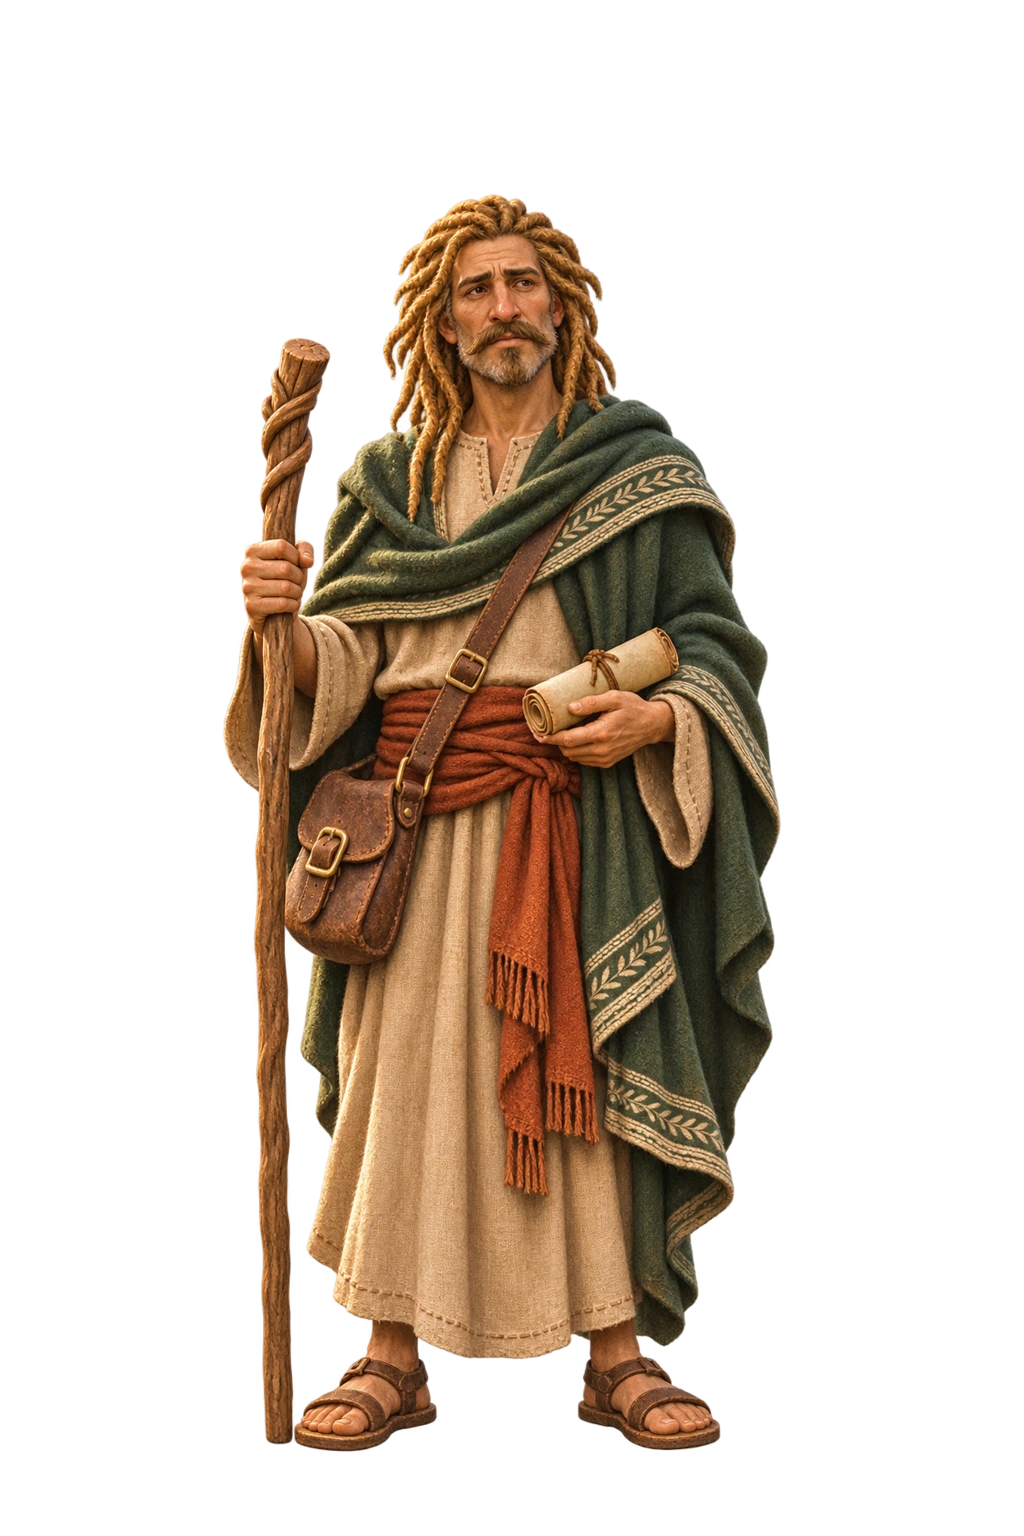
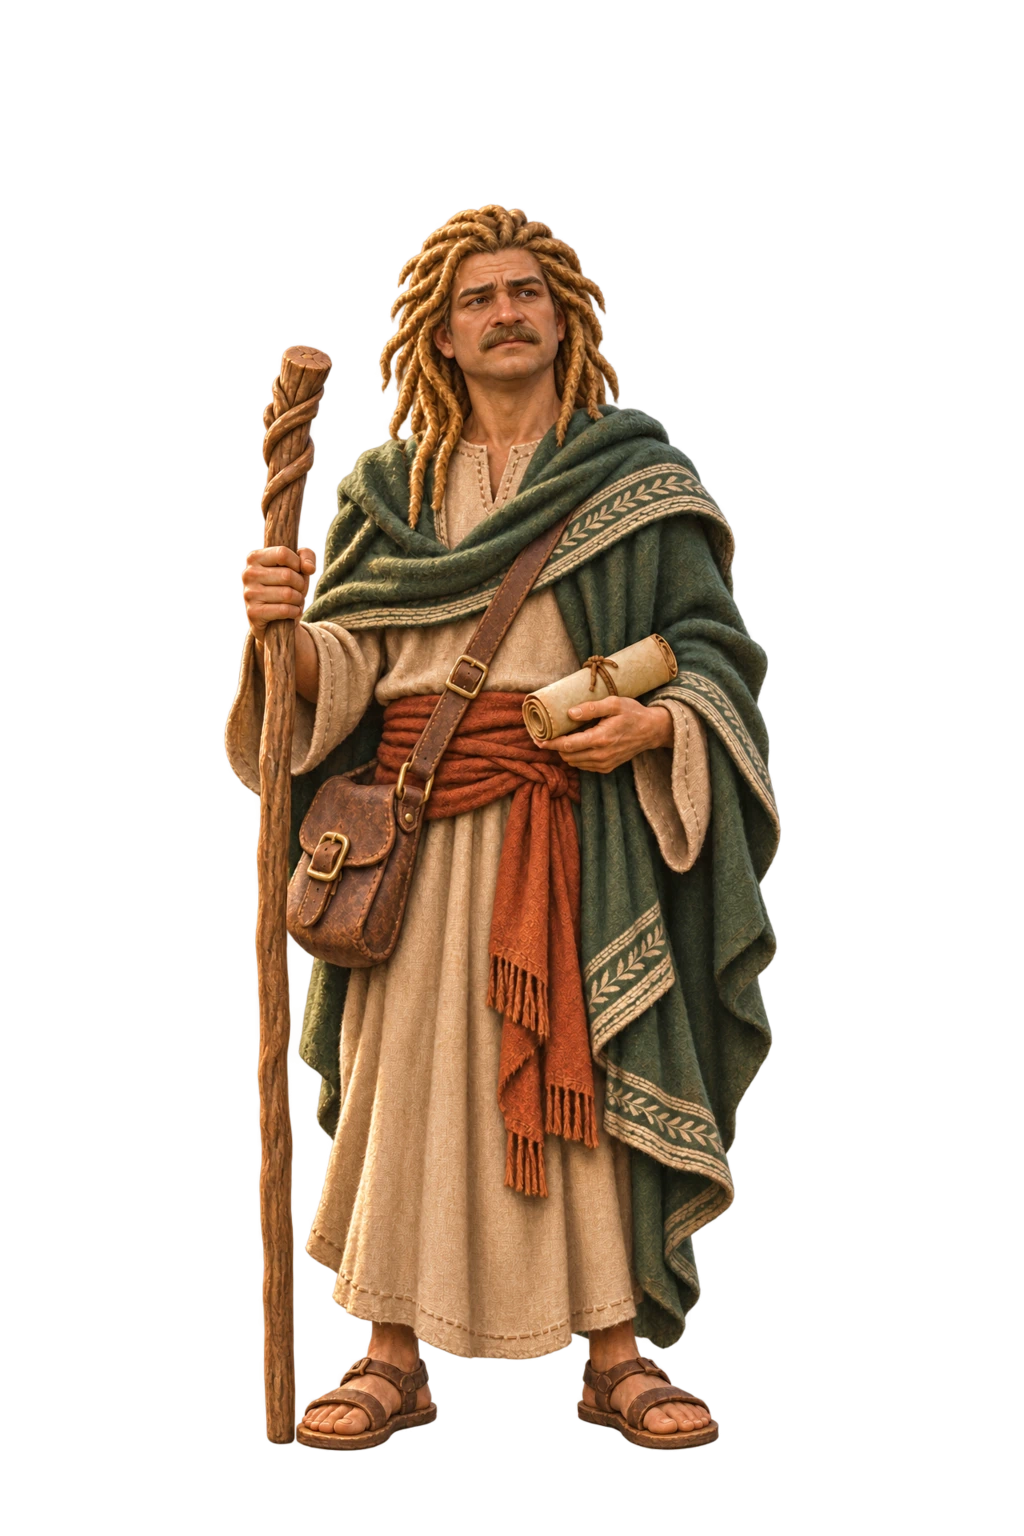
Aplica P07_v2 e P08_v2: rostos próprios para Vestes de Jonas e de Tiago
Substitui só pinturas, ícones e fichas das duas skins (sem migração),
atualiza identidadeFacial no plano, documentos da entrega e PARA-O-CODEX.

Claude-Session: https://claude.ai/code/session_01ShwRuBXYkz4meuq65H5Vn5

Changed region(s): [[0.2188, 0.125, 0.7812, 0.9375], [0.4062, 0.6562, 0.4375, 0.6875]]

diff --git a/docs/skins/entregas/P08/PROMPTS.md b/docs/skins/entregas/P08/PROMPTS.md
@@ -172,6 +172,14 @@ COSTUME AND TABLEAU: Peter, a sturdy fisherman in a long muted marine-blue linen
 
 EXACT STYLE 3: very deep rich brown skin (#5A3721); short neatly cut hair; hair color black (#1E1916). Match beard color when present, with subtle age grizzling where appropriate. The requested hair must be clearly visible and distinct. Inspired costume, not a claim about a historical portrait.
 
+## lendario_tiago_filho_de_zebedeu · estilo 1 · ajuste
+
+Use case: identity-preserve / precise-object-edit. Edit THIS EXISTING full-body painted 2.5D RPG sprite. Replace ONLY the facial identity and facial hair with the NEW specific portrait below. This is an intentional identity redesign: the old face must not remain. Keep ALL hair on the head exactly as in the reference (same hairstyle and color), same exact skin tone and lighting, same head position, same gaze direction, full body pose, connected hands, clothes, all textiles, belt, props, feet, framing and genuine transparent background. Keep the premium painted brushwork and texture, not CGI, vector or cartoon. The only changes are the new underlying facial architecture and required facial hair removal/replacement. Keep the full 1024x1536 canvas, entire body, all props and both feet. No added ambient fog, no background, no crop.
+
+NEW UNIQUE FACE IDENTITY: A mature rugged adult around 43, ENTIRELY CLEAN-SHAVEN with NO beard, NO moustache and NO stubble. A LONG RECTANGULAR FACE with a visibly STRONG CLEFT CHIN and a broad square lower jaw, a BROAD STRAIGHT nose with a FLAT WIDE TIP, small narrow deep-set eyes under LOW STRAIGHT HORIZONTAL eyebrows, moderately prominent ears and defined horizontal forehead lines. Firm thin closed lips and a calm experienced expression. Natural adult West Asian inspired anatomy, not a caricature. Clearly older and longer-faced than the young clean-shaven apostle John, and decisively unlike the aquiline-nosed fork-bearded John the Baptist.
+
+MATCH THIS EXACT EXISTING STYLE 1: preserve its skin tone, head hairstyle, head hair color and original costume without any recoloring. Change the facial hair exactly as specified; moustache color (if present) matches the head hair. Every hand, garment and prop is invariant.
+
 ## lendario_tiago_filho_de_zebedeu · estilo 1
 
 Use case: stylized-concept. Create ONE complete full-body character game skin for Jornada Bíblica. Match the APPROVED premium 2.5D PAINTED RPG style: modeled painted anatomy, rich tactile linen/wool/camel-hair/leather textures, restrained painted metal, soft painted edges and believable adult 7-to-7.5-head proportions. Never flat vector, anime, cartoon, toy, plastic CGI or a 3D render. Warm neutral light from upper left. The MATERIAL REFERENCE gives only the texture/brushwork; invent the new portrait described below, never borrow another character face. Face individuality is essential. One standing adult, forward-facing or slight natural three-quarter torso turn, stable upright stance, exactly two connected arms and two natural five-finger hands, all props properly supported. Portrait RGBA canvas 1024x1536, centered x=512, head crown around y=216, head center near (512,300), chin near (512,391), both soles y=1450. Keep full head, hair, hands, feet and prescribed props within generous margins, no clipping. GENUINELY TRANSPARENT BACKGROUND with clean antialiased alpha edges. All lighting painted INSIDE the figure and props. No ambient cloud, vignette, drop shadow, atmospheric colored wash, floor rectangle, UI, labels or watermark. Keep all unpainted canvas at alpha zero. Single coherent full-body costume/tableau.
@@ -181,6 +189,14 @@ MANDATORY UNIQUE FACE IDENTITY: A fisherman around 37 with a DISTINCT LONG TRIAN
 COSTUME AND TABLEAU: James son of Zebedee as an energetic fisherman: a sturdy long ochre and warm umber linen tunic, wide dark teal wool mantle with a wind-lifted folded edge and restrained woven rust trim, a broad leather-and-cloth waist sash and work sandals. His right hand holds a neatly COILED FISHING ROPE with clear separate rope loops and one small hanging wooden net float. A small folded strip of fishing net is securely tucked at his opposite belt side; his other hand is relaxed by his side. Exactly two hands, rope held with believable weight and contact. Strong upright silhouette and purposeful closed-mouth expression, no lightning bolts or superhero costume, no ocean rectangle, weapon or extra people.
 
 EXACT STYLE 1: fair warm skin (#F5D6BF); distinct separated dreadlocks; hair color honey blond (#C99A52). Match beard color when present, with subtle age grizzling where appropriate. The requested hair must be clearly visible and distinct. Inspired costume, not a claim about a historical portrait.
+
+## lendario_tiago_filho_de_zebedeu · estilo 2 · ajuste
+
+Use case: identity-preserve / precise-object-edit. Edit THIS EXISTING full-body painted 2.5D RPG sprite. Replace ONLY the facial identity and facial hair with the NEW specific portrait below. This is an intentional identity redesign: the old face must not remain. Keep ALL hair on the head exactly as in the reference (same hairstyle and color), same exact skin tone and lighting, same head position, same gaze direction, full body pose, connected hands, clothes, all textiles, belt, props, feet, framing and genuine transparent background. Keep the premium painted brushwork and texture, not CGI, vector or cartoon. The only changes are the new underlying facial architecture and required facial hair removal/replacement. Keep the full 1024x1536 canvas, entire body, all props and both feet. No added ambient fog, no background, no crop.
+
+NEW UNIQUE FACE IDENTITY: A mature rugged adult around 43, ENTIRELY CLEAN-SHAVEN with NO beard, NO moustache and NO stubble. A LONG RECTANGULAR FACE with a visibly STRONG CLEFT CHIN and a broad square lower jaw, a BROAD STRAIGHT nose with a FLAT WIDE TIP, small narrow deep-set eyes under LOW STRAIGHT HORIZONTAL eyebrows, moderately prominent ears and defined horizontal forehead lines. Firm thin closed lips and a calm experienced expression. Natural adult West Asian inspired anatomy, not a caricature. Clearly older and longer-faced than the young clean-shaven apostle John, and decisively unlike the aquiline-nosed fork-bearded John the Baptist.
+
+MATCH THIS EXACT EXISTING STYLE 2: preserve its skin tone, head hairstyle, head hair color and original costume without any recoloring. Change the facial hair exactly as specified; moustache color (if present) matches the head hair. Every hand, garment and prop is invariant.
 
 ## lendario_tiago_filho_de_zebedeu · estilo 2
 
@@ -193,6 +209,14 @@ MANDATORY UNIQUE FACE IDENTITY: A fisherman around 37 with a DISTINCT LONG TRIAN
 COSTUME AND TABLEAU: James son of Zebedee as an energetic fisherman: a sturdy long ochre and warm umber linen tunic, wide dark teal wool mantle with a wind-lifted folded edge and restrained woven rust trim, a broad leather-and-cloth waist sash and work sandals. His right hand holds a neatly COILED FISHING ROPE with clear separate rope loops and one small hanging wooden net float. A small folded strip of fishing net is securely tucked at his opposite belt side; his other hand is relaxed by his side. Exactly two hands, rope held with believable weight and contact. Strong upright silhouette and purposeful closed-mouth expression, no lightning bolts or superhero costume, no ocean rectangle, weapon or extra people.
 
 EXACT STYLE 2: medium warm tan skin (#CF9A6C); short neatly cut hair; hair color dark brown (#3A281D). Match beard color when present, with subtle age grizzling where appropriate. The requested hair must be clearly visible and distinct. Inspired costume, not a claim about a historical portrait.
+
+## lendario_tiago_filho_de_zebedeu · estilo 3 · ajuste
+
+Use case: identity-preserve / precise-object-edit. Edit THIS EXISTING full-body painted 2.5D RPG sprite. Replace ONLY the facial identity and facial hair with the NEW specific portrait below. This is an intentional identity redesign: the old face must not remain. Keep ALL hair on the head exactly as in the reference (same hairstyle and color), same exact skin tone and lighting, same head position, same gaze direction, full body pose, connected hands, clothes, all textiles, belt, props, feet, framing and genuine transparent background. Keep the premium painted brushwork and texture, not CGI, vector or cartoon. The only changes are the new underlying facial architecture and required facial hair removal/replacement. Keep the full 1024x1536 canvas, entire body, all props and both feet. No added ambient fog, no background, no crop.
+
+NEW UNIQUE FACE IDENTITY: A mature rugged adult around 43, ENTIRELY CLEAN-SHAVEN with NO beard, NO moustache and NO stubble. A LONG RECTANGULAR FACE with a visibly STRONG CLEFT CHIN and a broad square lower jaw, a BROAD STRAIGHT nose with a FLAT WIDE TIP, small narrow deep-set eyes under LOW STRAIGHT HORIZONTAL eyebrows, moderately prominent ears and defined horizontal forehead lines. Firm thin closed lips and a calm experienced expression. Natural adult West Asian inspired anatomy, not a caricature. Clearly older and longer-faced than the young clean-shaven apostle John, and decisively unlike the aquiline-nosed fork-bearded John the Baptist.
+
+MATCH THIS EXACT EXISTING STYLE 3: preserve its skin tone, head hairstyle, head hair color and original costume without any recoloring. Change the facial hair exactly as specified; moustache color (if present) matches the head hair. Every hand, garment and prop is invariant.
 
 ## lendario_tiago_filho_de_zebedeu · estilo 3
 

diff --git a/docs/skins/entregas/P07/PROMPTS.md b/docs/skins/entregas/P07/PROMPTS.md
@@ -172,6 +172,14 @@ COSTUME AND TABLEAU: John the Baptist in a complete modest ankle-length garment 
 
 EXACT STYLE 3: deep brown skin (#865233); defined natural curls; hair color auburn (#7E3A22). Match beard color when present, with subtle age grizzling where appropriate. The requested hair must be clearly visible and distinct. Inspired costume, not a claim about a historical portrait.
 
+## lendario_jonas · estilo 1 · ajuste
+
+Use case: identity-preserve / precise-object-edit. Edit THIS EXISTING full-body painted 2.5D RPG sprite. Replace ONLY the facial identity and facial hair with the NEW specific portrait below. This is an intentional identity redesign: the old face must not remain. Keep ALL hair on the head exactly as in the reference (same hairstyle and color), same exact skin tone and lighting, same head position, same gaze direction, full body pose, connected hands, clothes, all textiles, belt, props, feet, framing and genuine transparent background. Keep the premium painted brushwork and texture, not CGI, vector or cartoon. The only changes are the new underlying facial architecture and required facial hair removal/replacement. Keep the full 1024x1536 canvas, entire body, all props and both feet. No added ambient fog, no background, no crop.
+
+NEW UNIQUE FACE IDENTITY: A mature man around 45 with a COMPACT BROAD FACE, full low rounded cheeks, a SHORT WIDE LOW-BRIDGED NOSE with broad rounded nostrils, small heavy-lidded eyes and a broad rounded smooth chin. A thick neatly trimmed natural horizontal MOUSTACHE ONLY. The cheeks, lower lip and entire chin are CLEAN-SHAVEN, with clearly visible skin and no beard or stubble. Pensive closed-mouth expression. Realistic adult anatomy, no caricature. This compact broad moustached face must be clearly different from the narrow long-nosed fork-bearded John the Baptist and from every other portrait.
+
+MATCH THIS EXACT EXISTING STYLE 1: preserve its skin tone, head hairstyle, head hair color and original costume without any recoloring. Change the facial hair exactly as specified; moustache color (if present) matches the head hair. Every hand, garment and prop is invariant.
+
 ## lendario_jonas · estilo 1
 
 Use case: stylized-concept. Create ONE complete full-body character game skin for Jornada Bíblica. Match the APPROVED premium 2.5D PAINTED RPG style: modeled painted anatomy, rich tactile linen/wool/camel-hair/leather textures, restrained painted metal, soft painted edges and believable adult 7-to-7.5-head proportions. Never flat vector, anime, cartoon, toy, plastic CGI or a 3D render. Warm neutral light from upper left. The MATERIAL REFERENCE gives only the texture/brushwork; invent the new portrait described below, never borrow another character face. Face individuality is essential. One standing adult, forward-facing or slight natural three-quarter torso turn, stable upright stance, exactly two connected arms and two natural five-finger hands, all props properly supported. Portrait RGBA canvas 1024x1536, centered x=512, head crown around y=216, head center near (512,300), chin near (512,391), both soles y=1450. Keep full head, hair, hands, feet and prescribed props within generous margins, no clipping. GENUINELY TRANSPARENT BACKGROUND with clean antialiased alpha edges. All lighting painted INSIDE the figure and props. No ambient cloud, vignette, drop shadow, atmospheric colored wash, floor rectangle, UI, labels or watermark. Keep all unpainted canvas at alpha zero. Single coherent full-body costume/tableau.
@@ -181,6 +189,14 @@ MANDATORY UNIQUE FACE IDENTITY: A traveler around 42, with a distinct PENTAGONAL
 COSTUME AND TABLEAU: Jonah as a traveler preparing a sea voyage. An elegant but weathered long sand linen tunic, a substantial deep desaturated jade-green wool travel mantle with restrained cream woven borders, a wide rust fabric sash, leather cross-body satchel and worn sandals. His left hand naturally supports a small CLOSED rolled parchment travel document at waist level, tied with a simple cord; his right hand holds a simple wooden walking staff planted beside his feet. The document is a symbolic passage for the voyage, not a modern printed ticket. No modern writing, ship, ocean background or extra person. Fine textured travel garments and the staff/document silhouette identify this Legendary skin.
 
 EXACT STYLE 1: light warm tan skin (#E8BC95); distinct separated dreadlocks; hair color honey blond (#C99A52). Match beard color when present, with subtle age grizzling where appropriate. The requested hair must be clearly visible and distinct. Inspired costume, not a claim about a historical portrait.
+
+## lendario_jonas · estilo 2 · ajuste
+
+Use case: identity-preserve / precise-object-edit. Edit THIS EXISTING full-body painted 2.5D RPG sprite. Replace ONLY the facial identity and facial hair with the NEW specific portrait below. This is an intentional identity redesign: the old face must not remain. Keep ALL hair on the head exactly as in the reference (same hairstyle and color), same exact skin tone and lighting, same head position, same gaze direction, full body pose, connected hands, clothes, all textiles, belt, props, feet, framing and genuine transparent background. Keep the premium painted brushwork and texture, not CGI, vector or cartoon. The only changes are the new underlying facial architecture and required facial hair removal/replacement. Keep the full 1024x1536 canvas, entire body, all props and both feet. No added ambient fog, no background, no crop.
+
+NEW UNIQUE FACE IDENTITY: A mature man around 45 with a COMPACT BROAD FACE, full low rounded cheeks, a SHORT WIDE LOW-BRIDGED NOSE with broad rounded nostrils, small heavy-lidded eyes and a broad rounded smooth chin. A thick neatly trimmed natural horizontal MOUSTACHE ONLY. The cheeks, lower lip and entire chin are CLEAN-SHAVEN, with clearly visible skin and no beard or stubble. Pensive closed-mouth expression. Realistic adult anatomy, no caricature. This compact broad moustached face must be clearly different from the narrow long-nosed fork-bearded John the Baptist and from every other portrait.
+
+MATCH THIS EXACT EXISTING STYLE 2: preserve its skin tone, head hairstyle, head hair color and original costume without any recoloring. Change the facial hair exactly as specified; moustache color (if present) matches the head hair. Every hand, garment and prop is invariant.
 
 ## lendario_jonas · estilo 2
 
@@ -193,6 +209,14 @@ MANDATORY UNIQUE FACE IDENTITY: A traveler around 42, with a distinct PENTAGONAL
 COSTUME AND TABLEAU: Jonah as a traveler preparing a sea voyage. An elegant but weathered long sand linen tunic, a substantial deep desaturated jade-green wool travel mantle with restrained cream woven borders, a wide rust fabric sash, leather cross-body satchel and worn sandals. His left hand naturally supports a small CLOSED rolled parchment travel document at waist level, tied with a simple cord; his right hand holds a simple wooden walking staff planted beside his feet. The document is a symbolic passage for the voyage, not a modern printed ticket. No modern writing, ship, ocean background or extra person. Fine textured travel garments and the staff/document silhouette identify this Legendary skin.
 
 EXACT STYLE 2: medium warm tan skin (#CF9A6C); short neatly cut hair; hair color dark brown (#3A281D). Match beard color when present, with subtle age grizzling where appropriate. The requested hair must be clearly visible and distinct. Inspired costume, not a claim about a historical portrait.
+
+## lendario_jonas · estilo 3 · ajuste
+
+Use case: identity-preserve / precise-object-edit. Edit THIS EXISTING full-body painted 2.5D RPG sprite. Replace ONLY the facial identity and facial hair with the NEW specific portrait below. This is an intentional identity redesign: the old face must not remain. Keep ALL hair on the head exactly as in the reference (same hairstyle and color), same exact skin tone and lighting, same head position, same gaze direction, full body pose, connected hands, clothes, all textiles, belt, props, feet, framing and genuine transparent background. Keep the premium painted brushwork and texture, not CGI, vector or cartoon. The only changes are the new underlying facial architecture and required facial hair removal/replacement. Keep the full 1024x1536 canvas, entire body, all props and both feet. No added ambient fog, no background, no crop.
+
+NEW UNIQUE FACE IDENTITY: A mature man around 45 with a COMPACT BROAD FACE, full low rounded cheeks, a SHORT WIDE LOW-BRIDGED NOSE with broad rounded nostrils, small heavy-lidded eyes and a broad rounded smooth chin. A thick neatly trimmed natural horizontal MOUSTACHE ONLY. The cheeks, lower lip and entire chin are CLEAN-SHAVEN, with clearly visible skin and no beard or stubble. Pensive closed-mouth expression. Realistic adult anatomy, no caricature. This compact broad moustached face must be clearly different from the narrow long-nosed fork-bearded John the Baptist and from every other portrait.
+
+MATCH THIS EXACT EXISTING STYLE 3: preserve its skin tone, head hairstyle, head hair color and original costume without any recoloring. Change the facial hair exactly as specified; moustache color (if present) matches the head hair. Every hand, garment and prop is invariant.
 
 ## lendario_jonas · estilo 3
 

diff --git a/docs/skins/entregas/P07/LEIA-ME.md b/docs/skins/entregas/P07/LEIA-ME.md
@@ -1,5 +1,9 @@
 # Jornada Bíblica · P07
 
+## Revisão da entrega · versão 2
+
+Vestes de Jonas recebeu rosto compacto mais largo, nariz curto de ponte baixa e bigode sem barba no queixo ou nas faces. A alteração foi feita nos três estilos após a comparação conjunta apontar semelhança com João Batista. Tons, penteados, cores, trajes, objetos, IDs e regras de leitura foram preservados. A ficha registra `revisaoRosto`. Este pacote completo substitui o ZIP inicial do mesmo lote; não cadastra skins novas. As demais cinco skins do lote permanecem iguais. A Gloriosa Jonas e o grande peixe conserva o seu rosto próprio já distinto, como nas duas Ester e nas duas skins de Jó da entrega anterior; a identidade é definida por skin, conforme o pedido e o padrão aprovado. A folha `capturas/Comparacao_Rostos_P07.png` mostra os três estilos de João Batista e o antes/depois da skin corrigida.
+
 Produção conforme o branch `claude/kind-bell-fuk4e4`, commit `593028f`, o `LOTES.md`, o `PRODUCAO-POR-LOTES.md` e o contrato de `TEMPORADA-1-EXODO.md` §2.
 
 **6 skins completas, de corpo inteiro, em 3 estilos: 18 pinturas 2.5D.** São 2 Lendárias e 4 Gloriosas. Cada personagem tem somente a apresentação do próprio sexo.
@@ -9,7 +13,7 @@ Produção conforme o branch `claude/kind-bell-fuk4e4`, commit `593028f`, o `LOT
 Cada skin tem formato de rosto, nariz, olhos, maxilar, idade aparente e expressão próprios, registrados em `identidadeFacial` na ficha e no plano. Os três estilos preservam esse perfil e usam os tons, cores e penteados do briefing. Referência de materiais sem rostos para evitar reaproveitar retratos. A prancha `capturas/Rostos_P07.png` mostra as 18 apresentações; `Galeria_P07.png` mostra as pinturas completas. Os rostos são criações artísticas, sem pretensão de retrato histórico.
 
 - **Vestes de Jonas** — `lendario_jonas` — Jn 1:3
-  Identidade facial: Adulto de meia-idade; rosto pentagonal, têmporas estreitas, maçãs angulosas e queixo curto, nariz comprido de ponta bulbosa, olhos fundos de pálpebras grossas, bigode marcado e barba curta separada.
+  Identidade facial: Adulto de meia-idade; rosto compacto largo de bochechas cheias, nariz curto largo de ponte baixa, olhos pequenos de pálpebras pesadas, queixo arredondado liso e bigode cheio aparado; sem barba nas faces nem no queixo.
 - **Daniel na cova dos leões** — `glorioso_daniel_na_cova_dos_leoes` — Dn 6:22
   Identidade facial: Ancião; testa alta com linhas horizontais, rosto comprido de maçãs cheias, nariz aquilino estreito, olhos pequenos serenos e barba longa de base retangular.
 - **Isaías e a brasa do altar** — `glorioso_isaias_e_a_brasa_do_altar` — Is 6:6-8

diff --git a/docs/skins/PARA-O-CODEX.md b/docs/skins/PARA-O-CODEX.md
@@ -365,3 +365,17 @@ A revisão de cada skin conta como feita quando a ficha nova traz `"revisaoRosto
 As migrações `20261202000800_skins_p07.sql` e `20261202000900_skins_p08.sql` trazem as 12 skins com as regras de leitura.
 
 **Próximo: P09 e P10**, o fim das principais.
+
+### 21.1 P07_v2 e P08_v2: rostos de Jonas e Tiago corrigidos (19/11/2026)
+
+- **P07_v2_final:** o ZIP confere com o `.zip.sha256` (`44f4d5d3…`) e as 67 somas conferem.
+- **P08_v2_final:** o ZIP confere com o `.zip.sha256` (`79ee4283…`) e as 67 somas conferem.
+- Mudaram só os 8 arquivos de cada skin corrigida: 6 pinturas, ícone e ficha. Os outros 80 arquivos de assets são idênticos aos já integrados.
+- As fichas mudaram só em `identidadeFacial`, `revisaoRosto` e `detalhesDaRevisao`. Medidas e âncoras conferem.
+- **Vestes de Jonas:** rosto compacto e largo, nariz curto e bigode, sem barba.
+- **Vestes de Tiago:** rosto retangular maduro, nariz achatado e queixo com covinha, sem barba nem bigode.
+- As comparações confirmam que os dois agora se distinguem de João Batista nos três estilos, com os mesmos tons, penteados e trajes.
+- Aprovado e integrado **sem migração nova**. O plano recebeu a nova `identidadeFacial`.
+- A Gloriosa "Jonas e o grande peixe" fica como foi enviada, com rosto próprio. Segue a regra de um rosto por skin, como nas duas Ester e nas duas skins de Jó.
+
+**Próximo: P09 e P10.**
